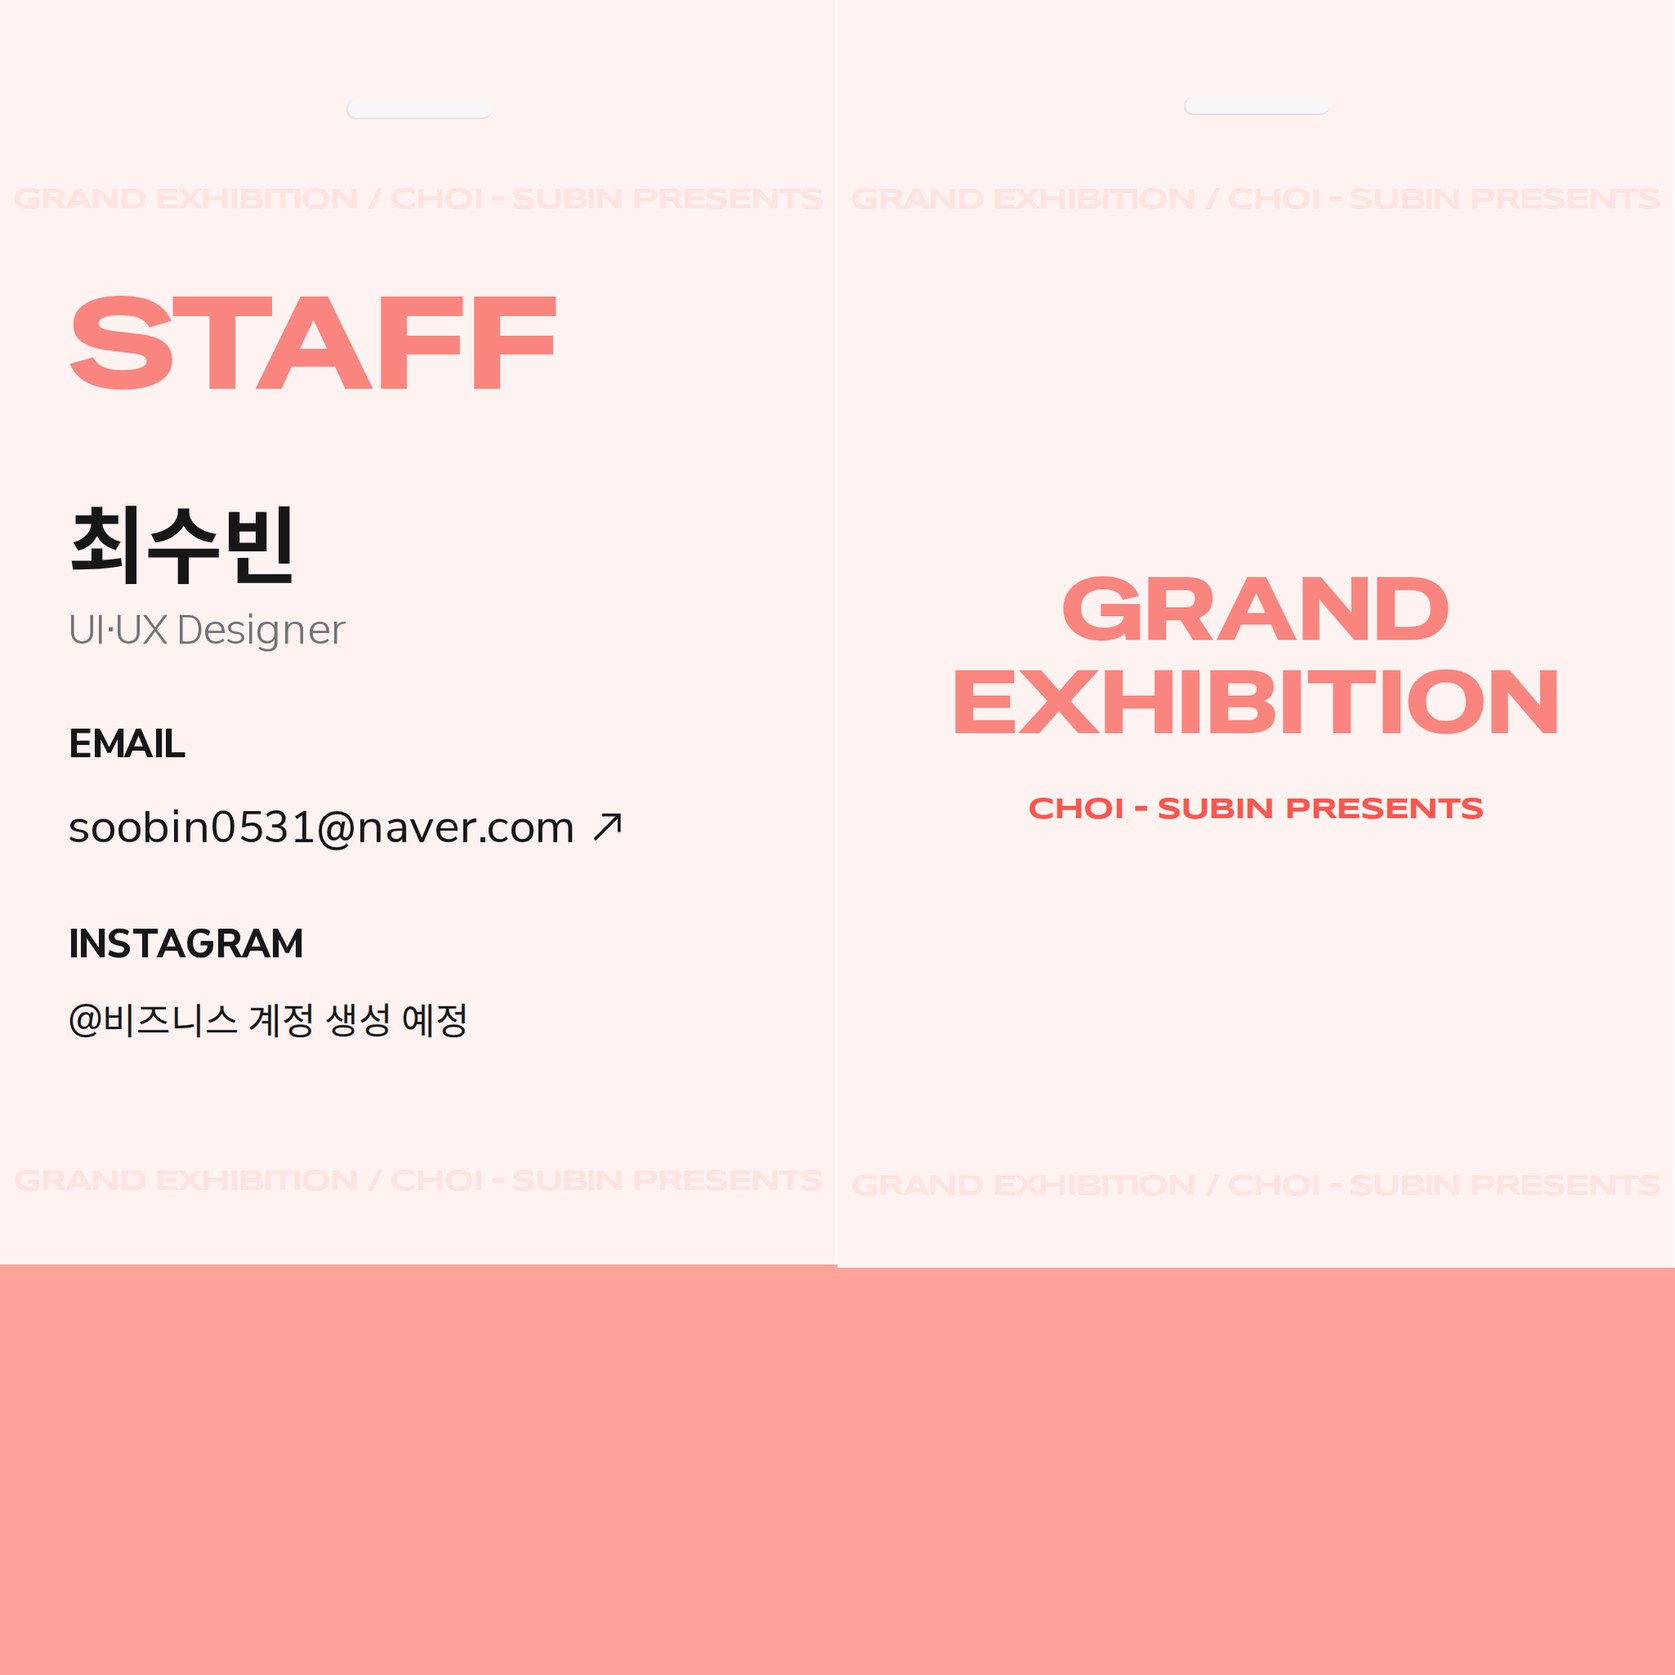
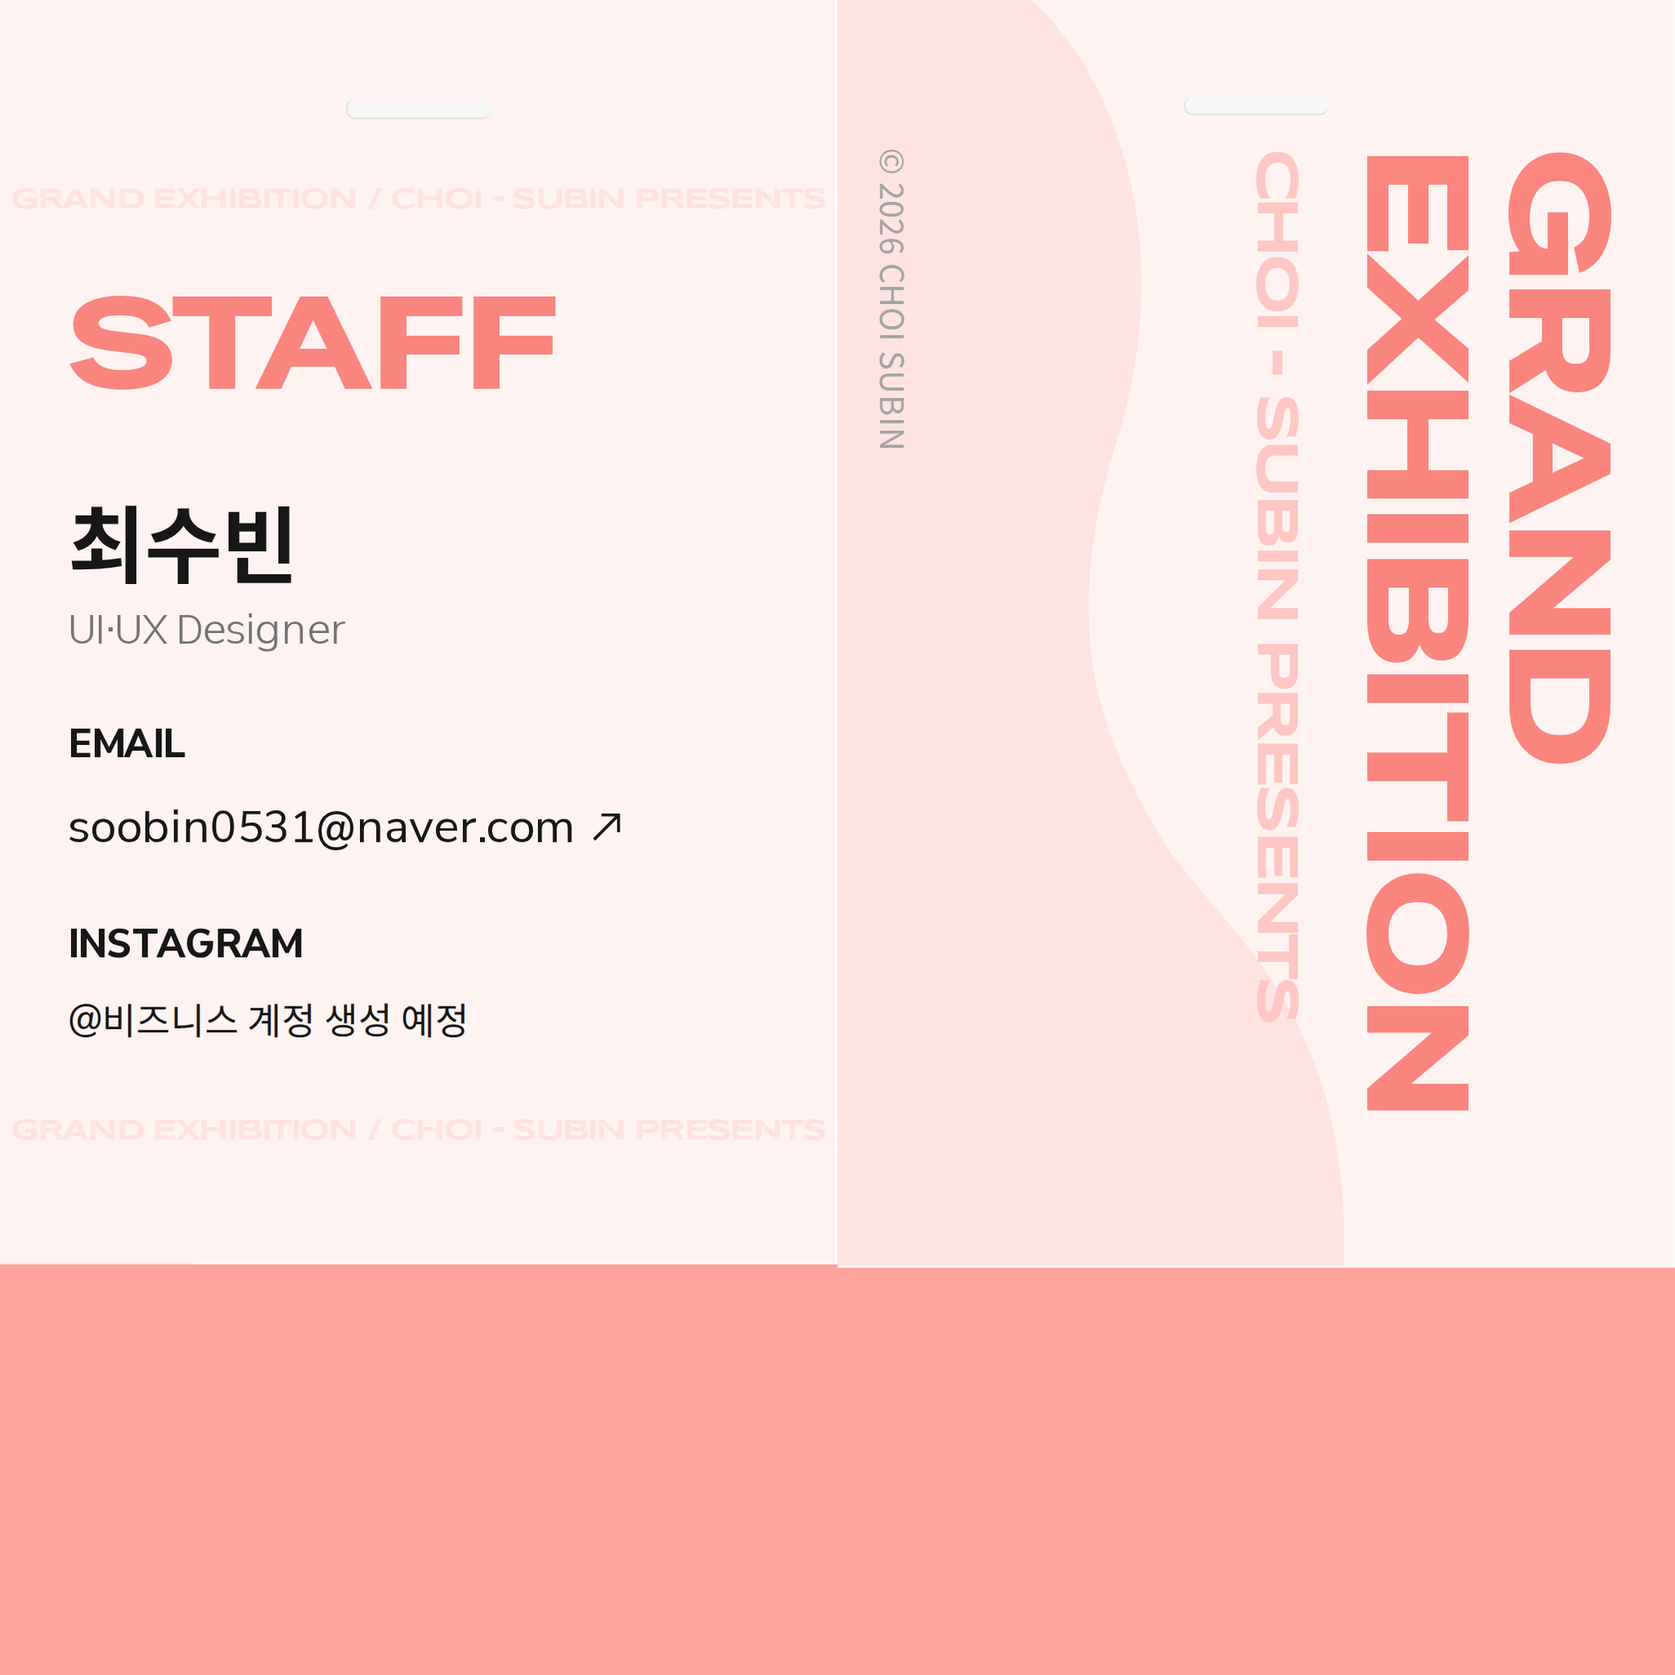
git commit -m "히어로 커서 코랄 효과 확장, 목걸이 카드 앞뒤 디자인 수정"

diff --git a/src/App.tsx b/src/App.tsx
@@ -3,6 +3,7 @@ import type { FormEvent, ReactNode, RefObject } from 'react'
 import { galleryPhotos, heroPhotos, plannedProjectPages, profile, projects } from './portfolio'
 import type { PhotoPosition, Project } from './portfolio'
 import heroCurve from './assets/design/hero-curve.svg'
+import heroCurveColor from './assets/design/hero-curve-color.svg'
 import chevron from './assets/design/chevron.svg'
 import kooksoondangLogo from './assets/design/kooksoondang-logo.svg'
 import kooksoondangDot from './assets/design/kooksoondang-dot.svg'
@@ -32,14 +33,15 @@ const photoSizes: Record<PhotoPosition, [number, number]> = {
 
 // 같은 사진을 두 장 겹칩니다. 아래 장은 채도를 90% 뺀 사진, 위 장은 원래 색 사진이며
 // 위 장은 커서 주변 원 안에서만 보입니다(가장자리 페이드는 바깥 틀이 두 장에 함께 적용).
+// data-reveal: 커서 위치(--mx/--my)를 받는 요소 표시(App.tsx useHeroColorReveal)
 function PhotoSlot({ position }: { position: PhotoPosition }) {
   const src = heroPhotos[position]
   const className = 'hero__photo hero__photo--' + position
   const [width, height] = photoSizes[position]
   return src ? (
-    <span className={className}>
+    <span className={className} data-reveal="">
       <img className="hero__photo-img" src={src} alt={photoDescriptions[position]} width={width} height={height} decoding="async" />
-      <img className="hero__photo-img hero__photo-color" src={src} alt="" aria-hidden="true" width={width} height={height} decoding="async" />
+      <img className="hero__photo-img hero__color-layer" src={src} alt="" aria-hidden="true" width={width} height={height} decoding="async" />
     </span>
   ) : (
     <div className={className + ' hero__photo--empty'} role="img" aria-label={photoDescriptions[position] + ' 자리'} />
@@ -47,26 +49,35 @@ function PhotoSlot({ position }: { position: PhotoPosition }) {
 }
 
 /* 히어로 색 드러내기 (React Bits Halftone Reveal의 돋보기 느낌만 참고)
-   - 마우스를 올리기 전: 사진 채도 90% 제거
-   - 마우스를 올리면: 커서 주변 원(히어로 높이의 21%, 가장자리 부드러움 0.5) 안에서만 원래 색
+   - 마우스를 올리기 전: 사진 채도 90% 제거, 글자·배경은 회색(피그마 122-582)
+   - 마우스를 올리면: 커서 주변 원(히어로 높이의 21%, 가장자리 부드러움 0.5) 안에서만
+     사진은 원래 색, GRAND·EXHIBITION 글자와 아래 배경은 코랄·와인 색(피그마 263-409),
+     히어로 아래 물결(피그마 150-1626)은 히어로 배경이 끝나는 색(#502421)
    - 망점 효과와 화면이 휘는 렌즈 왜곡은 넣지 않았습니다.
    - 마우스가 없는 기기(터치)에서는 처음부터 원래 색으로 보입니다(CSS). */
 const REVEAL_FOLLOW = 0.07 // 원이 커서를 따라가는 시간(초). 작을수록 바로 붙습니다.
 const REVEAL_FADE = 0.2 // 원이 나타나고 사라지는 시간(초)
 
-function useHeroColorReveal(heroRef: RefObject<HTMLElement | null>) {
+// stage: 히어로 + 아래 물결을 감싼 영역. 이 안에서 마우스가 움직이는 동안 원이 따라다닙니다.
+function useHeroColorReveal(stageRef: RefObject<HTMLElement | null>, heroRef: RefObject<HTMLElement | null>) {
   useEffect(() => {
+    const stage = stageRef.current
     const hero = heroRef.current
-    if (!hero || !window.matchMedia('(hover: hover) and (pointer: fine)').matches) return
-    const photos = [...hero.querySelectorAll<HTMLElement>('.hero__photo')]
+    if (!stage || !hero || !window.matchMedia('(hover: hover) and (pointer: fine)').matches) return
+    // 색 레이어(사진·글자·배경·물결)마다 자기 기준의 커서 위치를 넣어줍니다.
+    const targets = [...stage.querySelectorAll<HTMLElement>('[data-reveal]')]
     const reduced = window.matchMedia('(prefers-reduced-motion: reduce)').matches
     const s = { x: 0, y: 0, sx: 0, sy: 0, active: 0, target: 0, raf: 0, prev: 0 }
 
     const apply = () => {
-      hero.style.setProperty('--reveal', s.active.toFixed(3))
-      for (const photo of photos) {
-        photo.style.setProperty('--mx', (s.sx - photo.offsetLeft).toFixed(1) + 'px')
-        photo.style.setProperty('--my', (s.sy - photo.offsetTop).toFixed(1) + 'px')
+      stage.style.setProperty('--reveal', s.active.toFixed(3))
+      // 원 크기: 히어로 높이의 21% (물결은 히어로 밖에 있어서 px로 넘겨줍니다)
+      stage.style.setProperty('--reveal-r', (hero.clientHeight * 0.21).toFixed(1) + 'px')
+      const base = stage.getBoundingClientRect()
+      for (const target of targets) {
+        const box = target.getBoundingClientRect()
+        target.style.setProperty('--mx', (s.sx - (box.left - base.left)).toFixed(1) + 'px')
+        target.style.setProperty('--my', (s.sy - (box.top - base.top)).toFixed(1) + 'px')
       }
     }
     const tick = (now: number) => {
@@ -93,7 +104,7 @@ function useHeroColorReveal(heroRef: RefObject<HTMLElement | null>) {
     }
     const onMove = (event: PointerEvent) => {
       if (event.pointerType === 'touch') return
-      const rect = hero.getBoundingClientRect()
+      const rect = stage.getBoundingClientRect()
       s.x = event.clientX - rect.left
       s.y = event.clientY - rect.top
       // 원이 사라진 상태에서 다시 들어오면 커서 위치에서 바로 나타나게 합니다(미끄러져 오지 않게).
@@ -108,36 +119,44 @@ function useHeroColorReveal(heroRef: RefObject<HTMLElement | null>) {
       s.target = 0
       start()
     }
-    hero.addEventListener('pointermove', onMove, { passive: true })
-    hero.addEventListener('pointerenter', onMove, { passive: true })
-    hero.addEventListener('pointerleave', onLeave, { passive: true })
+    stage.addEventListener('pointermove', onMove, { passive: true })
+    stage.addEventListener('pointerenter', onMove, { passive: true })
+    stage.addEventListener('pointerleave', onLeave, { passive: true })
     return () => {
       if (s.raf) cancelAnimationFrame(s.raf)
-      hero.removeEventListener('pointermove', onMove)
-      hero.removeEventListener('pointerenter', onMove)
-      hero.removeEventListener('pointerleave', onLeave)
+      stage.removeEventListener('pointermove', onMove)
+      stage.removeEventListener('pointerenter', onMove)
+      stage.removeEventListener('pointerleave', onLeave)
     }
-  }, [heroRef])
+  }, [stageRef, heroRef])
 }
 
 function Hero() {
+  const stageRef = useRef<HTMLDivElement>(null)
   const heroRef = useRef<HTMLElement>(null)
-  useHeroColorReveal(heroRef)
+  useHeroColorReveal(stageRef, heroRef)
   return (
-    <>
+    <div ref={stageRef} className="hero-stage">
       <section ref={heroRef} className="hero" aria-labelledby="exhibition-title">
         <div className="hero__shade" aria-hidden="true" />
+        <div className="hero__shade hero__shade--color hero__color-layer" data-reveal="" aria-hidden="true" />
         <PhotoSlot position="right" />
         <h1 id="exhibition-title" className="hero__title">
           <span className="hero__word hero__word--grand">GRAND</span>{' '}
+          <span className="hero__word hero__word--grand hero__word--color hero__color-layer" data-reveal="" aria-hidden="true">GRAND</span>
           <span className="hero__word hero__word--exhibition">EXHIBITION</span>
+          <span className="hero__word hero__word--exhibition hero__word--color hero__color-layer" data-reveal="" aria-hidden="true">EXHIBITION</span>
         </h1>
         <PhotoSlot position="main" />
         <PhotoSlot position="upper" />
         <StrokePresenter />
       </section>
-      <img className="hero-curve" src={heroCurve} alt="" aria-hidden="true" />
-    </>
+      {/* 히어로 아래 물결(피그마 150-1626): 기본은 검정, 커서 주변 원 안에서는 히어로 배경이 끝나는 색 */}
+      <div className="hero-curve" aria-hidden="true">
+        <img className="hero-curve__img" src={heroCurve} alt="" />
+        <img className="hero-curve__img hero-curve__color hero__color-layer" src={heroCurveColor} alt="" data-reveal="" />
+      </div>
+    </div>
   )
 }
 

diff --git a/src/App.css b/src/App.css
@@ -134,11 +134,11 @@
 /* 마우스를 올리기 전: 채도 90% 제거 */
 .hero__photo-img:first-child { filter: saturate(0.1); }
 
-/* 마우스를 올리면: 커서 주변 원 안에서만 원래 색
-   --reveal(0~1)은 원이 나타난 정도, --mx/--my는 사진 안에서의 커서 위치입니다(App.tsx).
+/* 마우스를 올리면: 커서 주변 원 안에서만 색 레이어(사진 원래 색·코랄 글자·코랄 배경)가 보입니다.
+   --reveal(0~1)은 원이 나타난 정도, --mx/--my는 각 요소 안에서의 커서 위치입니다(App.tsx).
    원 크기는 히어로 높이의 21%이고, 가장자리는 반지름의 ±22.5% 구간에서 부드럽게 사라집니다. */
-.hero__photo-color {
-  --r: calc(21cqh * (0.6 + 0.4 * var(--reveal, 0)));
+.hero__color-layer {
+  --r: calc(var(--reveal-r, 21cqh) * (0.6 + 0.4 * var(--reveal, 0)));
   --reveal-mask: radial-gradient(
     circle at var(--mx, -9999px) var(--my, -9999px),
     #000 calc(var(--r) * 0.775),
@@ -151,12 +151,28 @@
   -webkit-mask-image: var(--reveal-mask);
   mask-image: var(--reveal-mask);
   pointer-events: none;
+  user-select: none;
 }
 
-/* 마우스가 없는 기기(터치)에서는 처음부터 원래 색으로 보여줍니다. */
+/* 색 레이어의 색(피그마 node 263-409).
+   배경은 회색 그라데이션이 시작되는 지점(34.685%)부터 흰 바탕을 깔아 회색을 완전히 가립니다.
+   (그 위쪽은 원래 흰 배경이라 아무것도 그리지 않아, 원 테두리에 옅은 줄무늬가 생기지 않게 했습니다.) */
+.hero__shade--color {
+  background:
+    linear-gradient(180deg, rgb(255 162 156 / 0%) 34.685%, rgb(174 48 43 / 75%) 78.961%, #502421 100%),
+    linear-gradient(180deg, transparent 34.685%, var(--neutral-white) 34.685%);
+}
+.hero__word--grand.hero__word--color {
+  background-image: linear-gradient(93.512046284deg, #ffc7c3 4.1604%, #812b27 85.816%);
+}
+.hero__word--exhibition.hero__word--color {
+  background-image: linear-gradient(99.287514289deg, #ffa29c 5.1776%, #812b27 54.232%, #502421 91.728%);
+}
+
+/* 마우스가 없는 기기(터치)에서는 사진만 처음부터 원래 색, 글자·배경은 기본(회색) 상태로 보여줍니다. */
 @media (hover: none), (pointer: coarse) {
   .hero__photo-img:first-child { filter: none; }
-  .hero__photo-color { display: none; }
+  .hero__color-layer { display: none; }
 }
 
 /* 사진 파일이 없을 때 보이는 자리 표시 */
@@ -218,7 +234,9 @@
 /* 아래 섹션은 1920px 피그마 비율을 바탕으로, 작은 화면에서는 읽기 쉽게 재배치합니다. */
 .portfolio { width: 100%; overflow-x: clip; }
 .section-heading { font-family: 'Lisu Bosa', Georgia, serif; font-weight: 700; }
-.hero-curve { width: 100%; height: auto; margin-top: -1px; }
+.hero-curve { position: relative; margin-top: -1px; }
+.hero-curve__img { display: block; width: 100%; height: auto; }
+.hero-curve__color { position: absolute; inset: 0; height: 100%; }
 
 /* SHOW LINE-UP */
 .lineup { min-height: calc(1080 * var(--u)); padding-top: calc(61 * var(--u)); }
@@ -367,11 +385,13 @@
   position: relative; margin-top: calc(133.333 * var(--u)); width: 100%; min-height: calc(596 * var(--u));
   border: 1px solid var(--primary-300); border-radius: calc(10.667 * var(--u)); background: #fff3f2;
   padding: calc(67 * var(--u)) calc(6.667 * var(--u)) calc(32 * var(--u));
-  display: flex; flex-direction: column; gap: calc(21.333 * var(--u)); overflow: hidden;
+  display: flex; flex-direction: column; align-items: center; gap: calc(21.333 * var(--u)); overflow: hidden;
 }
 .staff-pass__hole { position: absolute; left: 41.129%; top: calc(21 * var(--u) - 1px); width: 17.419%; height: calc(9.6 * var(--u)); border-bottom: 1px solid #e5e5e5; border-left: 1px solid #e5e5e5; border-radius: calc(4.8 * var(--u)); background: #f7f7f7; }
-.staff-pass__edge { font: 700 calc(14.667 * var(--u))/1.2 'Syncopate', sans-serif; letter-spacing: calc(-1.1733 * var(--u)); color: #ffe3e1; white-space: nowrap; }
-.staff-pass__body { display: flex; flex-direction: column; gap: calc(30 * var(--u)); padding: 0 calc(26.667 * var(--u)) calc(13.333 * var(--u)); }
+.staff-pass__edge { font: 700 calc(14.667 * var(--u))/1.2 'Syncopate', sans-serif; letter-spacing: calc(-1.6508 * var(--u)); color: #ffe3e1; white-space: nowrap; }
+/* 피그마 node 278-477: 가장자리 글씨는 가운데 정렬하고 카드 폭의 97.5%(1920 기준 403px)가 되도록 자간을 맞춤, 본문은 카드 폭 전체.
+   Syncopate는 작은 글자 크기에서 폭이 비례하지 않아 모바일 자간은 따로 잰 값입니다. */
+.staff-pass__body { align-self: stretch; display: flex; flex-direction: column; gap: calc(30 * var(--u)); padding: 0 calc(26.667 * var(--u)) calc(13.333 * var(--u)); }
 .staff-pass__staff { font: 400 calc(64 * var(--u))/1.2 'Special Gothic Expanded One', sans-serif; color: var(--primary-500); opacity: .7; }
 .staff-pass__person h3 { font-size: calc(42.667 * var(--u)); line-height: 1.2; font-weight: 700; }
 .staff-pass__person p { color: #737373; font-size: calc(20 * var(--u)); font-weight: 300; line-height: 1.5; }
@@ -485,7 +505,7 @@
   .contact__connector { top: 284px; left: calc(50% - 24px); width: 48px; height: 28px; border-radius: 8px; }
   .staff-pass { margin-top: 112.8px; min-height: 520px; border-radius: 10px; padding: 58px 6px 28px; gap: 19px; }
   .staff-pass__hole { top: 20px; height: 8px; }
-  .staff-pass__edge { font-size: 12.77px; letter-spacing: -1.02px; }
+  .staff-pass__edge { font-size: 12.77px; letter-spacing: -1.09px; }
   .staff-pass__body { padding: 0 23px 12px; gap: 26px; }
   .staff-pass__staff { font-size: 55px; }
   .staff-pass__person h3 { font-size: 37px; }
@@ -571,7 +591,7 @@
   .contact__pass-area { width: 300px; }
   .contact__title { font-size: 82px; }
   .staff-pass { margin-top: 129.6px; padding-top: 52px; min-height: 490px; }
-  .staff-pass__edge { font-size: 10.45px; letter-spacing: -.836px; }
+  .staff-pass__edge { font-size: 10.45px; letter-spacing: -0.2875px; }
   .staff-pass__body { padding-inline: 18px; }
   .staff-pass__staff { font-size: 48px; }
   .staff-pass__person h3 { font-size: 34px; }

diff --git a/README.md b/README.md
@@ -39,7 +39,7 @@ macOS와 Linux에서는 `npm.cmd` 대신 `npm`을 사용합니다.
 - Show Line-up: 국순당은 Team / Web, 자두야는 Team / App으로 구분합니다. 처음에는 플랫폼 All로 두 프로젝트를 모두 보여주며, 드롭다운으로 나눠 볼 수 있습니다.
 - Artist Gallery: 위·아래 흰색 그라데이션의 끝 불투명도를 92%에서 100%로 올렸습니다.
 - 히어로: 피그마 사진 3장을 배치하고, 사진 가장자리가 뚝 끊기지 않게 부드럽게 투명해지도록 했습니다(가운데 한복 사진은 왼쪽 아래 모서리까지). 창 높이가 낮아도 사진이 히어로 아래로 잘리지 않게 크기를 제한합니다. 투명해지는 길이는 `src/App.css`의 사진별 `--fade`(아래), `--fade-left`·`--fade-right`(좌우) 값으로 조절합니다.
-- 히어로 커서 효과: 사진은 채도를 90% 뺀 상태로 보이다가, 마우스를 올리면 커서 주변 원 안에서만 원래 색이 드러납니다. 원 크기·가장자리는 `src/App.css`의 `.hero__photo-color`, 따라오는 속도는 `src/App.tsx`의 `REVEAL_FOLLOW`·`REVEAL_FADE`로 조절합니다. 터치 기기에서는 처음부터 원래 색으로 보입니다.
+- 히어로 커서 효과: 사진은 채도를 90% 뺀 상태, 글자·배경은 회색으로 보이다가, 마우스를 올리면 커서 주변 원 안에서만 사진은 원래 색, GRAND·EXHIBITION 글자와 아래 배경은 코랄·와인 색(피그마 263-409), 히어로 아래 물결은 배경이 끝나는 와인색(#502421)으로 드러납니다. 원 크기·가장자리는 `src/App.css`의 `.hero__photo-color`, 따라오는 속도는 `src/App.tsx`의 `REVEAL_FOLLOW`·`REVEAL_FADE`로 조절합니다. 터치 기기에서는 처음부터 원래 색으로 보입니다.
 - Director’s Note: 사진과 글이 나란히 배치되는 화면에서는 사진 중앙이 화면 중앙에 도달하면 고정되고, 마지막 소개 문단의 끝에서 함께 올라갑니다. 좁은 모바일 화면에서는 사진 다음에 글이 자연스럽게 이어집니다.
 - Contact: 스태프 패스가 3D 목줄에 매달려 흔들리며, 마우스로 끌어 당길 수 있습니다(React Bits Lanyard). 폰·터치 태블릿·동작 줄이기 설정에서는 기존 그림 카드가 나옵니다.
 - 화면 배율 200% PC에서도 태블릿 배치 대신 데스크톱 디자인을 비율대로 줄여 보여줍니다.
